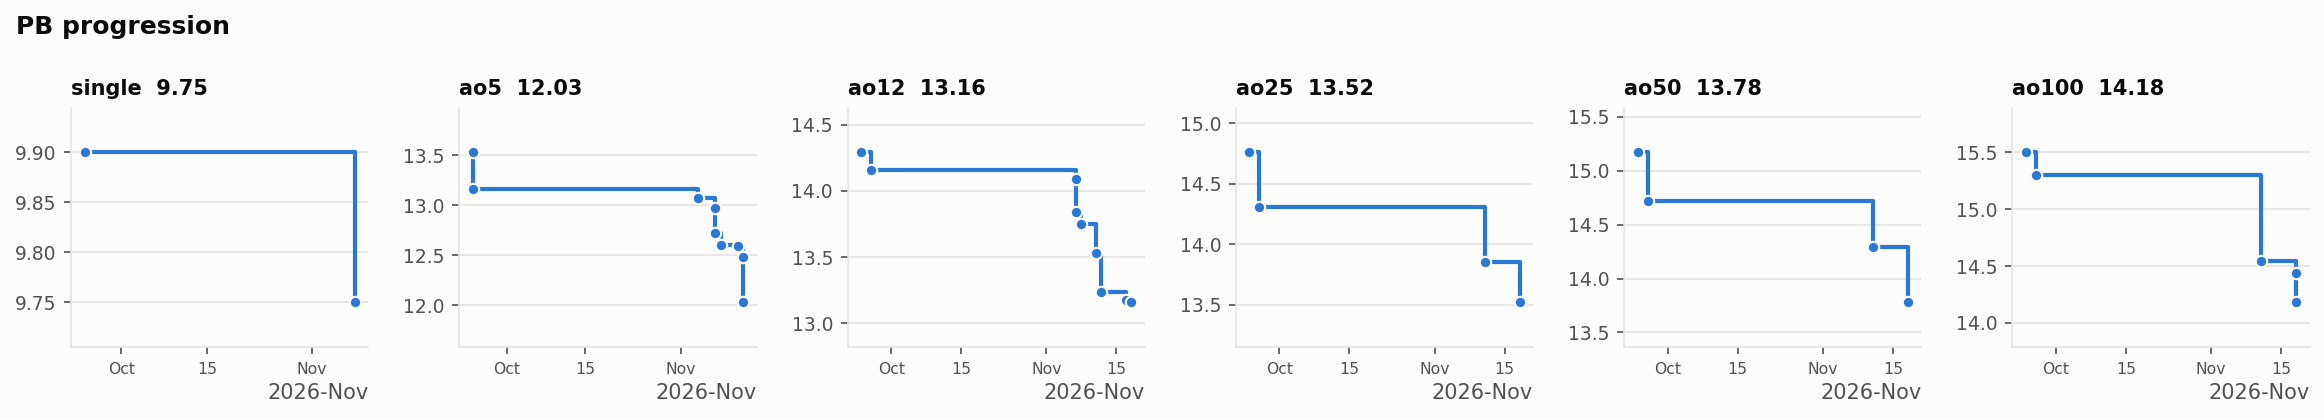
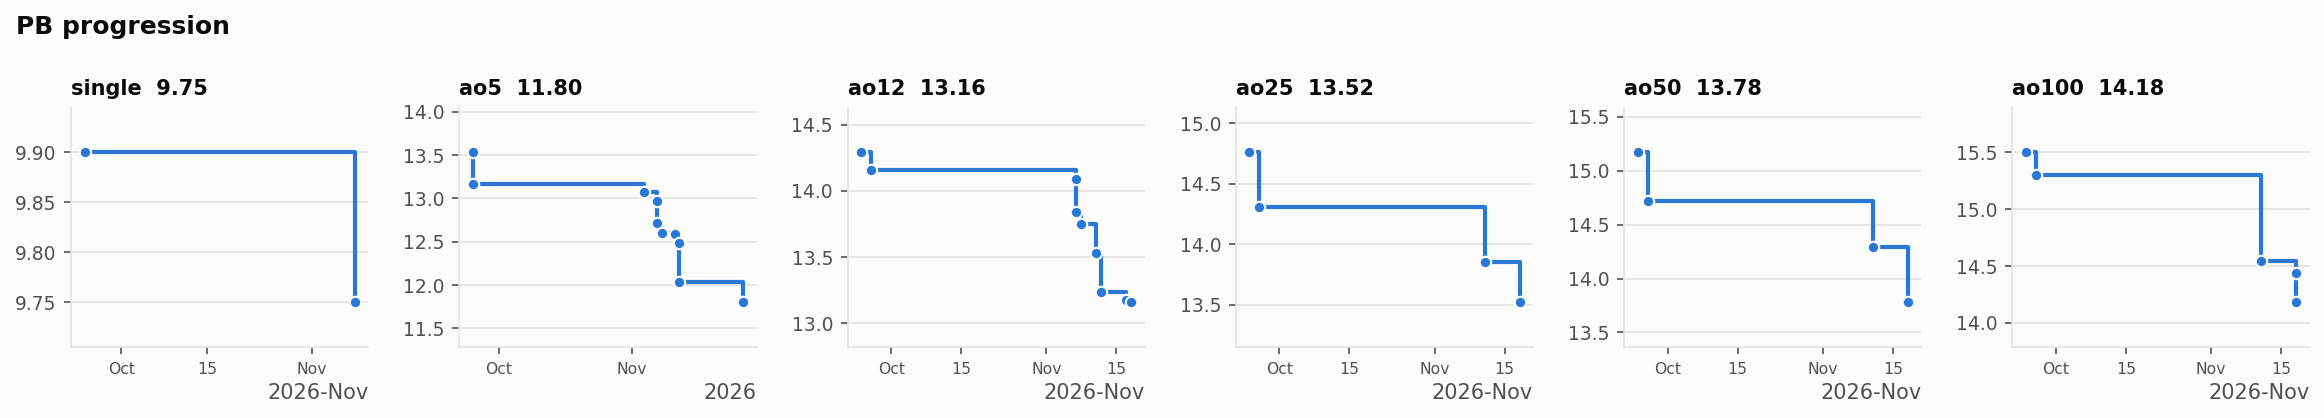
Add 11.80 ao5 PB (2026-11-27)

diff --git a/stats/ao5/ao5_2026-11-27.md b/stats/ao5/ao5_2026-11-27.md
@@ -1,0 +1,46 @@
+# ao5 PB — 11.80
+
+**Date:** 2026-11-27  
+**Previous PB:** 12.03 (2026-11-12 (#2)) · improved by **0.23s**  
+[← all records](../../README.md)
+
+## Stats
+
+| | |
+|---|---|
+| **ao5 (official, trimmed)** | **11.80** |
+| Solves | 5 (trimmed 1 from each end) |
+| Mean (all solves) | 12.69 |
+| Median | 11.82 |
+| Std dev (σ, all solves) | 2.80 |
+| Std dev (σ, counted solves only) | 1.13 |
+| **Consistency: σ / mean** | **22.0%** |
+| Consistency, outlier-proof: IQR / median | 19.0% |
+| Min / Best | 10.65 |
+| Q1 (25th pct) | 10.67 |
+| Q3 (75th pct) | 12.92 |
+| Max / Worst | 17.41 |
+| IQR (Q3 − Q1) | 2.25 |
+| Range | 6.76 |
+
+**Sub-X counts:** sub-11: 2 · sub-12: 3 · sub-13: 4 · sub-14: 4 · sub-15: 4 · sub-16: 4
+
+## Distribution
+
+![distribution](../charts/ao5_2026-11-27_distribution.png)
+
+## Solves in order
+
+![sequence](../charts/ao5_2026-11-27_sequence.png)
+
+## Solves
+
+| # | Time | Scramble |
+|---|---|---|
+| 1 | (10.65) | `B2 L2 R2 F U2 B' R2 F' D2 R2 B' L B F' R F2 U' L2 D L R` |
+| 2 | **12.92** | `R' D L2 B2 L2 F2 R2 D U2 R2 D' B U2 L2 R F2 U' B U' L` |
+| 3 | **10.67** | `U D' F2 R2 L2 B' R2 U R' L2 B2 D R2 U' L2 U L2 D' R2 B2` |
+| 4 | (17.41) | `R F2 U' R2 F2 L2 B D2 B' U2 R2 F' D2 R2 D' F D2 B L F' R'` |
+| 5 | **11.82** | `L2 D R2 U2 L2 R2 F2 U' F2 U' F U' B2 L U R2 D U B2` |
+
+<sub>Bold = counted, (parentheses) = trimmed. `+` = includes a +2 penalty.</sub>

diff --git a/README.md b/README.md
@@ -7,7 +7,7 @@ Personal-best averages, with the full solve list and stats behind each one. New 
 | Event | PB | Date | Stats |
 |---|---|---|---|
 | **single** | **9.75** | 2026-11-08 | [details](stats/single/single_2026-11-08.md) |
-| **ao5** | **12.03** | 2026-11-12 (#2) | [details](stats/ao5/ao5_2026-11-12_2.md) |
+| **ao5** | **11.80** | 2026-11-27 | [details](stats/ao5/ao5_2026-11-27.md) |
 | **ao12** | **13.16** | 2026-11-18 | [details](stats/ao12/ao12_2026-11-18.md) |
 | **ao25** | **13.52** | 2026-11-18 | [details](stats/ao25/ao25_2026-11-18.md) |
 | **ao50** | **13.78** | 2026-11-18 | [details](stats/ao50/ao50_2026-11-18.md) |
@@ -32,7 +32,8 @@ Newest first. Each new PB pushes the older ones down.
 
 | Date | Time | Improvement | σ | σ / mean | Stats |
 |---|---|---|---|---|---|
-| 2026-11-12 (#2) | **12.03** | −0.45 | 1.48 | 11.9% | [details](stats/ao5/ao5_2026-11-12_2.md) |
+| 2026-11-27 | **11.80** | −0.23 | 2.80 | 22.0% | [details](stats/ao5/ao5_2026-11-27.md) |
+| 2026-11-12 (#2) | 12.03 | −0.45 | 1.48 | 11.9% | [details](stats/ao5/ao5_2026-11-12_2.md) |
 | 2026-11-12 | 12.48 | −0.11 | 1.58 | 12.5% | [details](stats/ao5/ao5_2026-11-12.md) |
 | 2026-11-11 | 12.59 | −0.01 | 1.22 | 9.6% | [details](stats/ao5/ao5_2026-11-11.md) |
 | 2026-11-08 | 12.60 | −0.12 | 0.84 | 6.6% | [details](stats/ao5/ao5_2026-11-08.md) |
